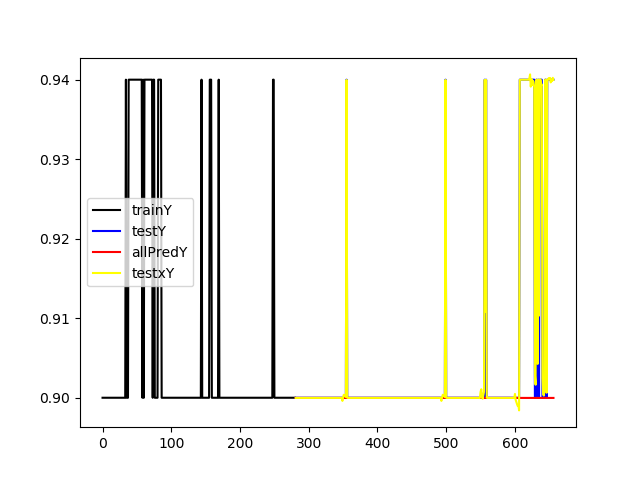
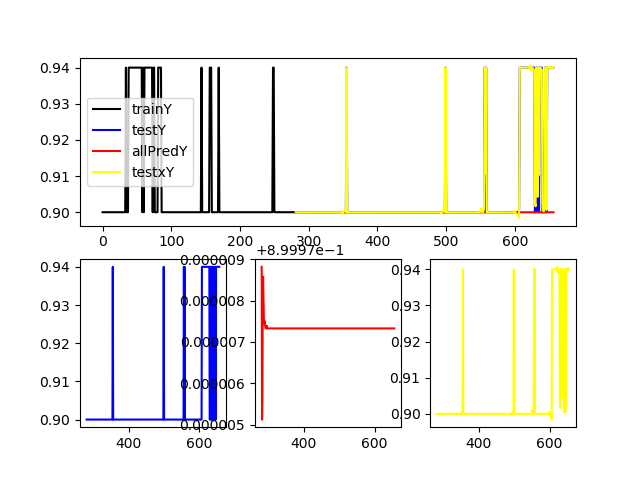
change pic

diff --git a/AIStudy/rnn/lstm.py b/AIStudy/rnn/lstm.py
@@ -102,11 +102,18 @@ def use_model():
 		_test_y = scaler.inverse_transform(test_y)
 		pred_y_list_1 = scaler.inverse_transform(pred_y_list_1)
 		pred_y_list_2 = scaler.inverse_transform(pred_y_list_2)
+		plt.subplot(211)
 		plt.plot(range(0,index),scaler.inverse_transform(train_y),color='k')
 		plt.plot(range(index,_length),_test_y,color='blue')
 		plt.plot(range(index,_length),pred_y_list_1,color='red')
 		plt.plot(range(index,_length),pred_y_list_2,color='yellow')
 		plt.legend(['trainY','testY','allPredY','testxY'])
+		plt.subplot(234)
+		plt.plot(range(index,_length),_test_y,color='blue')
+		plt.subplot(235)
+		plt.plot(range(index,_length),pred_y_list_1,color='red')
+		plt.subplot(236)
+		plt.plot(range(index,_length),pred_y_list_2,color='yellow')
 		plt.savefig('../pic/pred4.png')
 
 x,y,scaler = load_data()
